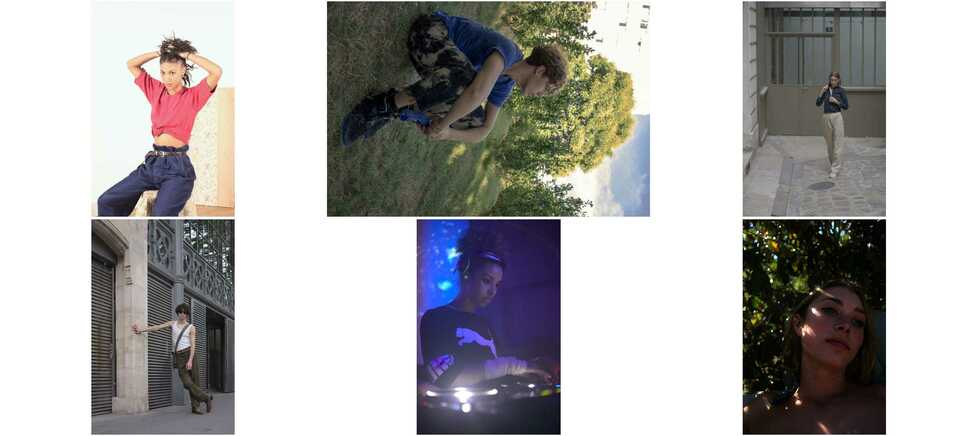
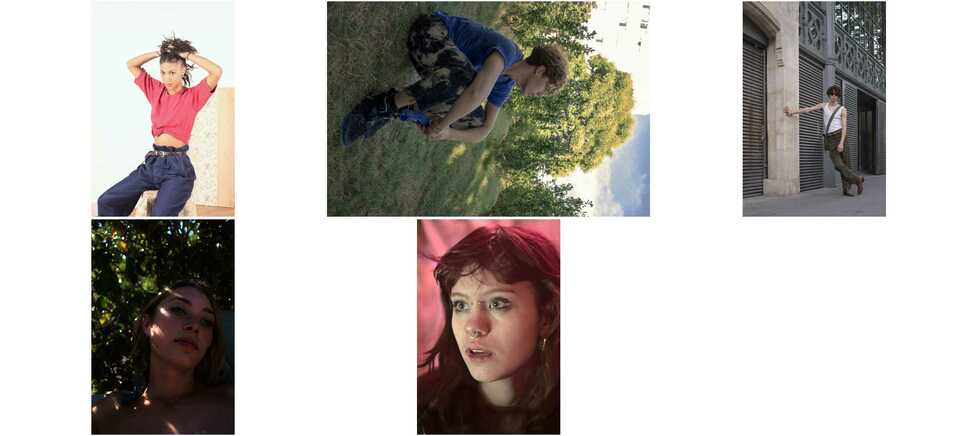
maj

Changed region(s): [[0.7369, 0.0, 0.9212, 1.0], [0.3992, 0.4771, 0.5834, 1.0], [0.0921, 0.4771, 0.2456, 1.0]]

diff --git a/image.html b/image.html
@@ -9,8 +9,8 @@
 <META NAME="ThumbnailX" CONTENT="977">
 <META NAME="ThumbnailY" CONTENT="650">
 <META NAME="DateBegin" CONTENT="201806230649.51">
-<META NAME="DateEnd" CONTENT="202208281816.02">
-<META NAME="NumImages" CONTENT="6">
+<META NAME="DateEnd" CONTENT="202312300955.34">
+<META NAME="NumImages" CONTENT="5">
 <TITLE>image</TITLE>
 <LINK TYPE="text/css" REL="stylesheet" HREF="image.css">
 </HEAD>
@@ -20,7 +20,8 @@ if (parent.frames.length > 0) {
    parent.location.href = self.document.location
 }
 </SCRIPT>
-<H3><A HREF="index.html">home</A></H3>
+<H1 CLASS="title">image</H1>
+<H3><a href="index.html">home</a></H3>
 <TABLE WIDTH="100%" CLASS="index">
   <TR>
     <TD CLASS="index" VALIGN="middle" ALIGN="center">
@@ -40,14 +41,6 @@ if (parent.frames.length > 0) {
   </TR>
   <TR>
     <TD CLASS="index" VALIGN="middle" ALIGN="center">
-      <DIV CLASS="index">09/19/2020 5:20:52 PM</DIV>
-      <A HREF="21.jpg" TITLE="21.jpg (10.0M)" NAME="21.jpg"><IMG SRC="thumbnail/21.jpg" WIDTH="433" HEIGHT="650" ALT=" 21.jpg " CLASS="index"></A>
-      <DIV CLASS="index"><A HREF="21.jpg">full size</A>&nbsp;|&nbsp;<A HREF="medium/21.jpg">medium</A></DIV>
-    </TD>
-
-  </TR>
-  <TR>
-    <TD CLASS="index" VALIGN="middle" ALIGN="center">
       <DIV CLASS="index">07/02/2021 2:40:33 PM</DIV>
       <A HREF="42.jpg" TITLE="42.jpg (14.2M)" NAME="42.jpg"><IMG SRC="thumbnail/42.jpg" WIDTH="433" HEIGHT="650" ALT=" 42.jpg " CLASS="index"></A>
       <DIV CLASS="index"><A HREF="42.jpg">full size</A>&nbsp;|&nbsp;<A HREF="medium/42.jpg">medium</A></DIV>
@@ -62,8 +55,16 @@ if (parent.frames.length > 0) {
     </TD>
 
   </TR>
+  <TR>
+    <TD CLASS="index" VALIGN="middle" ALIGN="center">
+      <DIV CLASS="index">12/30/2023 09:55:34 AM</DIV>
+      <A HREF="4276.jpg" TITLE="4276.jpg (40.4M)" NAME="4276.jpg"><IMG SRC="thumbnail/4276.jpg" WIDTH="433" HEIGHT="650" ALT=" 4276.jpg " CLASS="index"></A>
+      <DIV CLASS="index"><A HREF="4276.jpg">full size</A>&nbsp;|&nbsp;<A HREF="medium/4276.jpg">medium</A></DIV>
+    </TD>
+
+  </TR>
 </TABLE>
-<DIV CLASS="credits"><I>ch</I><BR>
-<IMG SRC="ico/cc-zero.jpg" WIDTH="12" HEIGHT="12">
-</BODY>
+<div class="credits"><i>ch</i><br>
+<img src="ico/cc-zero.jpg" width="12" height="12">
+</div></BODY>
 </HTML>
